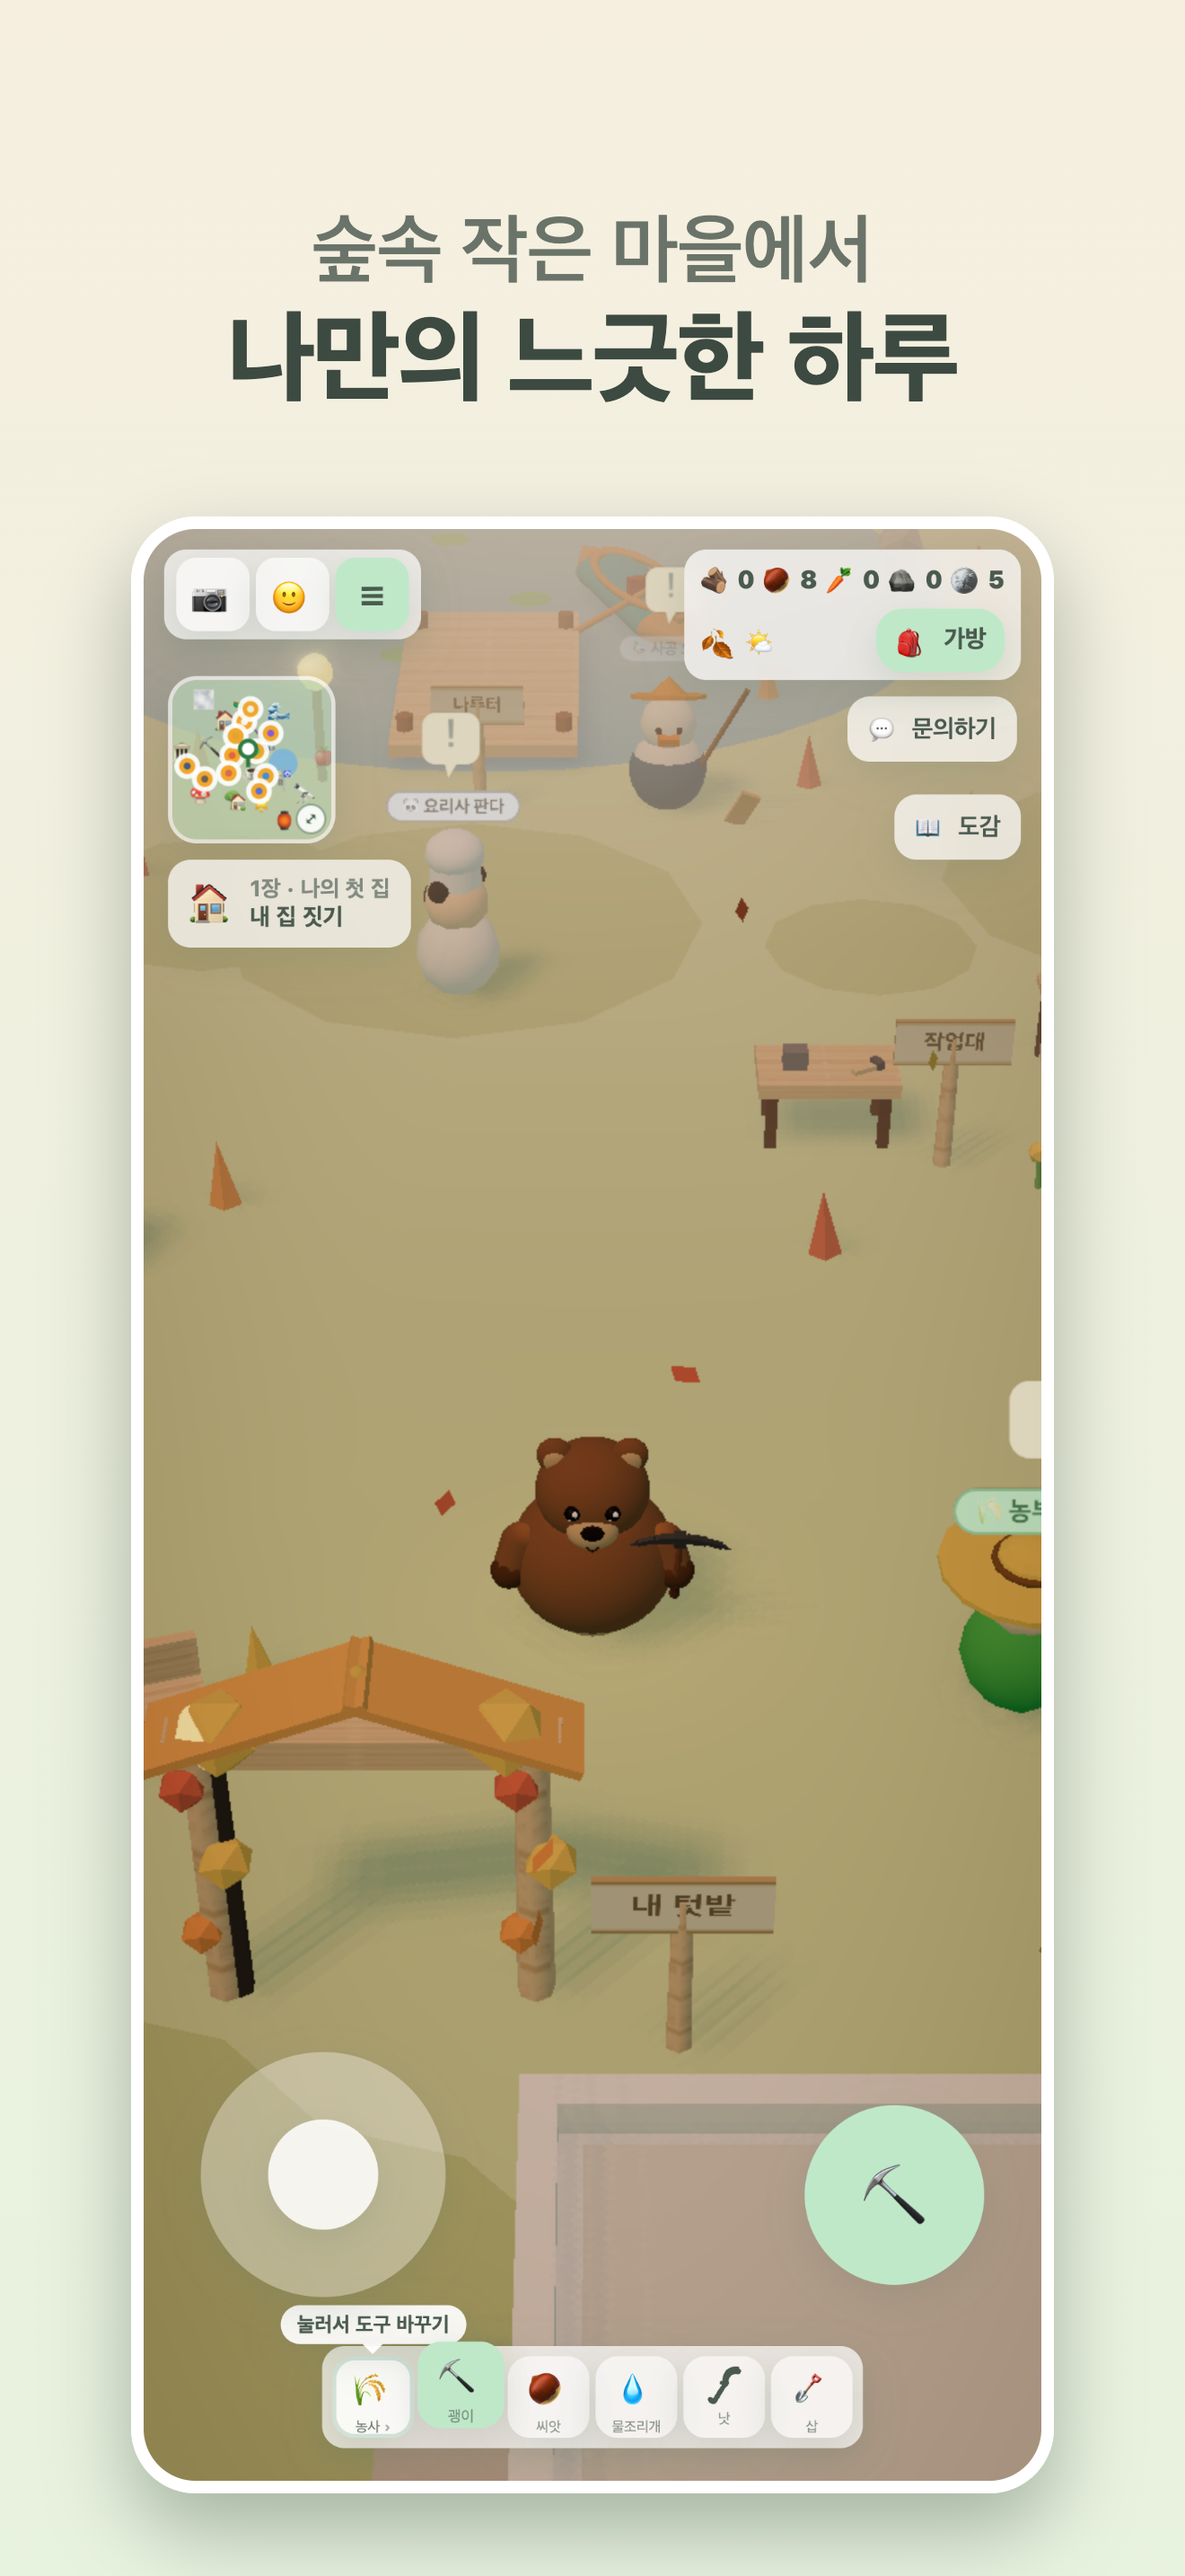
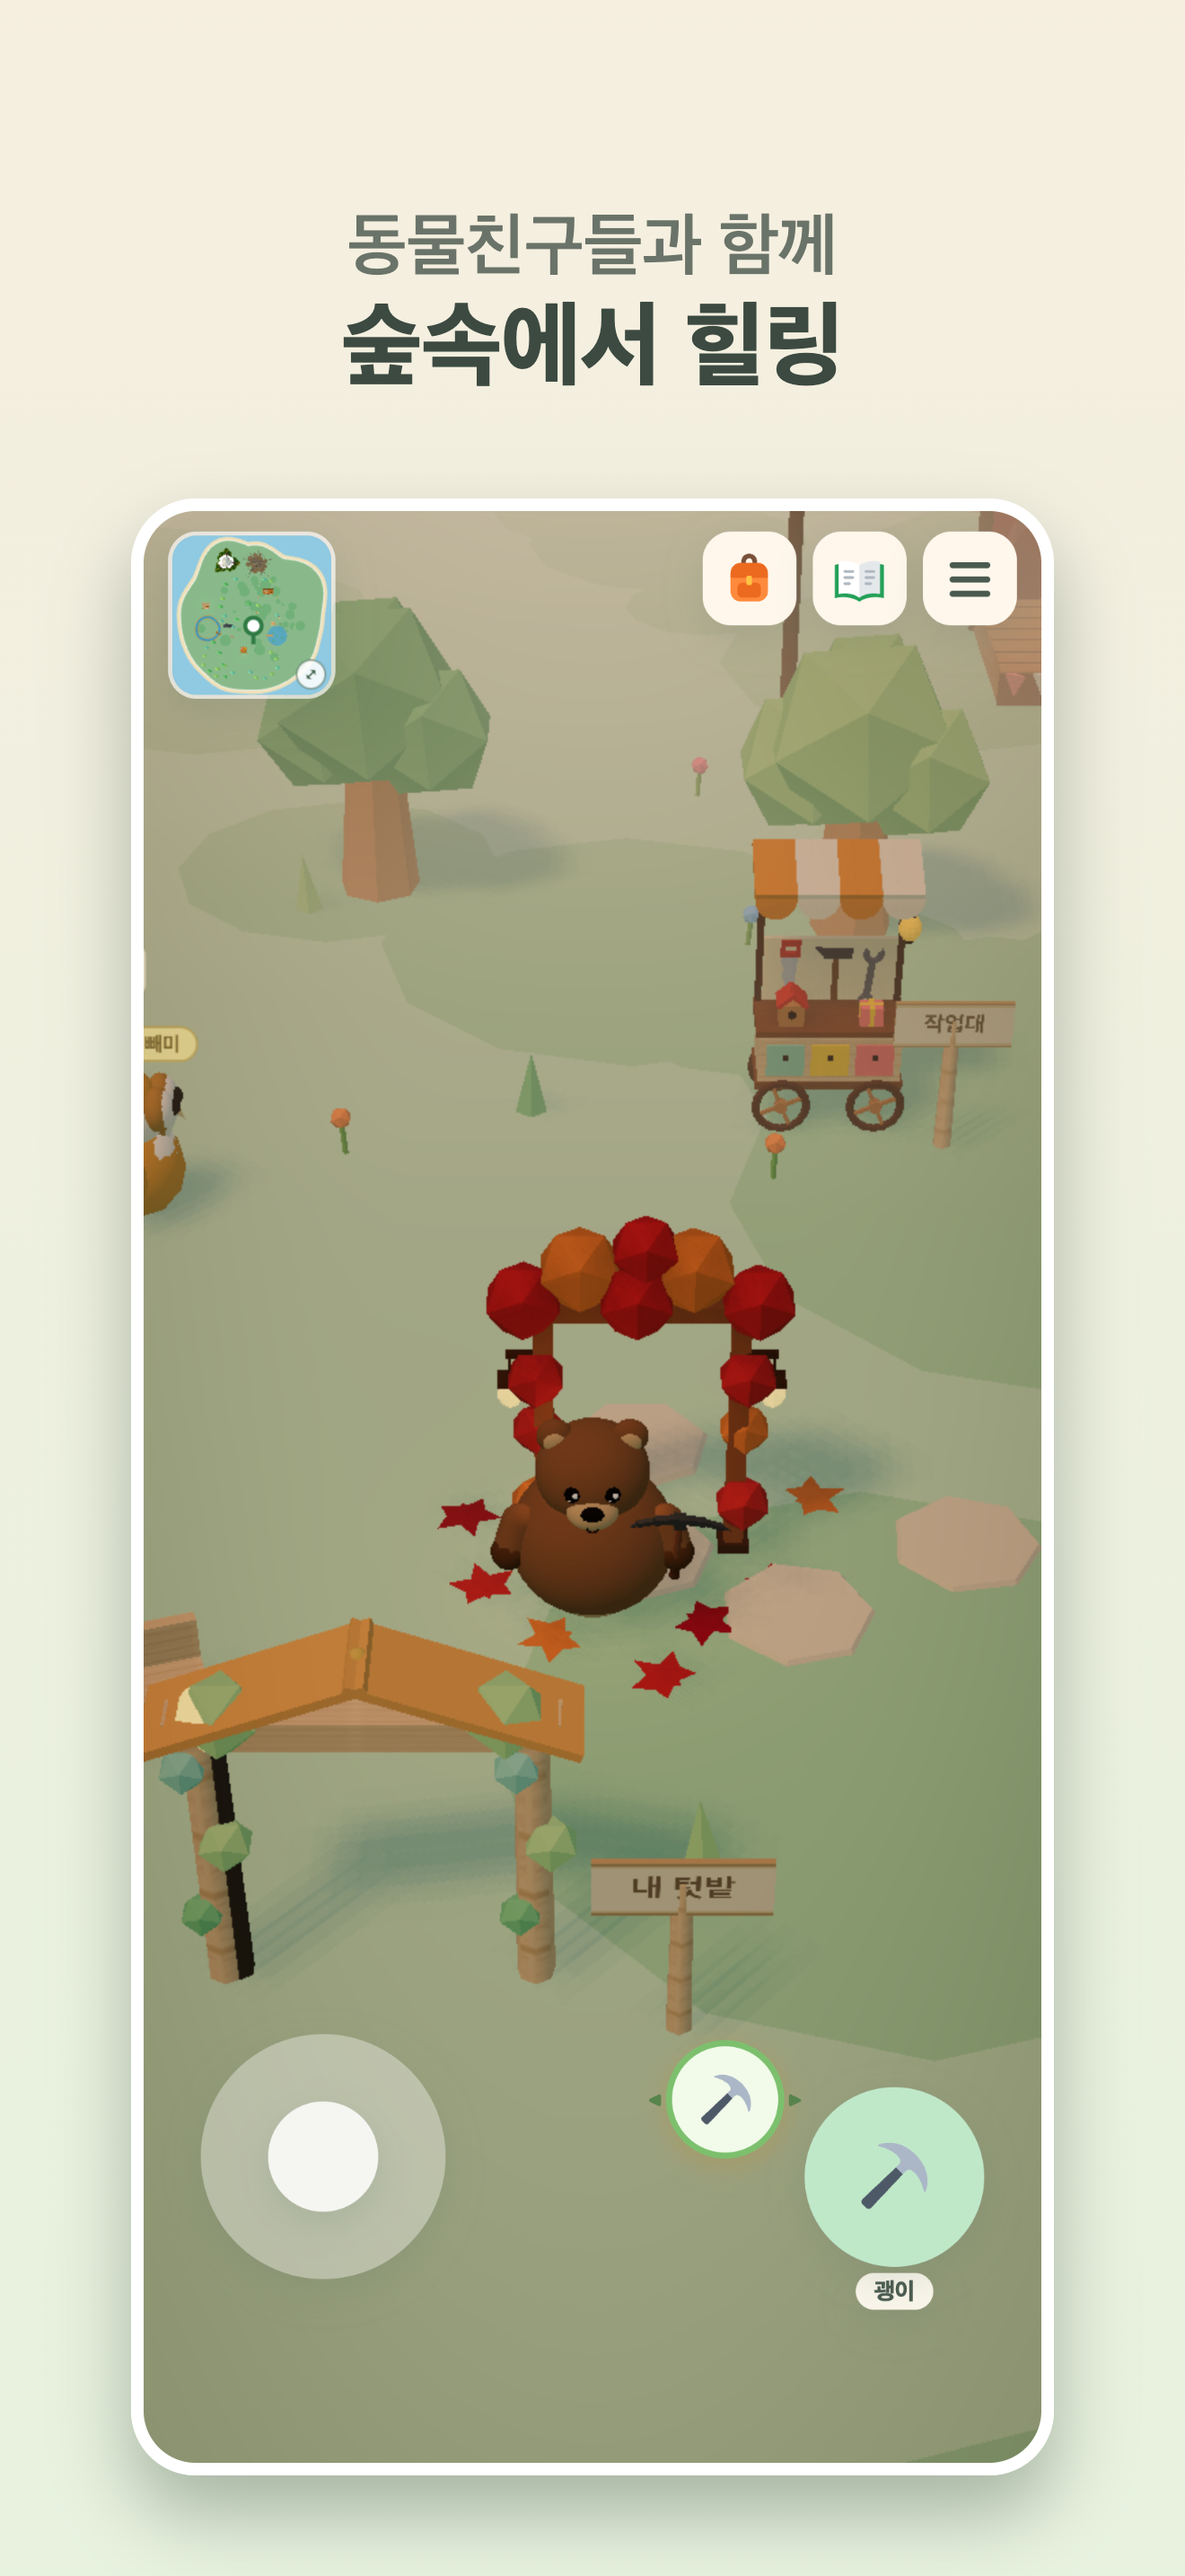
chore(store): new-UI store screenshots with captions, retire old assets
- frames.mjs: caption frame (cream band + inset) for phone, 7", 10", iPhone in ko/en
- shots.mjs: fill the nickname field, English dismiss labels, lift the pre-world
  backdrop, hide tour/tips/app banner, force default render quality, unlocks=off
  for farm/mirror/observatory/orchard, retake blank frames
- assets/store/ios(+en): 8 new 1320x2868 shots for the next App Store version
- remove ios-frames.mjs and unused assets/store/screenshots (archived privately)

diff --git a/docs/ops/APP_STORE_LISTING.md b/docs/ops/APP_STORE_LISTING.md
@@ -154,6 +154,6 @@ Available in Korean and English.
 | 저작권 | `© 2026 Hwang Cheorish` |
 | 연령 등급 | 설문 전부 '없음' → 4+ 예상(사용자 간 상호작용: 리더보드 닉네임·이웃 마을 구경은 '제한적'으로 답) |
 | 가격 | 무료, 앱 내 구입 없음 |
-| 스크린샷 6.9" | `assets/store/ios/01~05` (1320×2868) |
+| 스크린샷 6.9" | `assets/store/ios/01~08` + `en/01~08` (1320×2868, `tools/store-shots/frames.mjs`) |
 | 수출 규정 준수 | Info.plist `ITSAppUsesNonExemptEncryption=false` — 질문 안 뜸 |
 | 로그인 정보(심사용) | 필요 없음 — Apple 창을 닫으면 게스트로 바로 플레이 |
